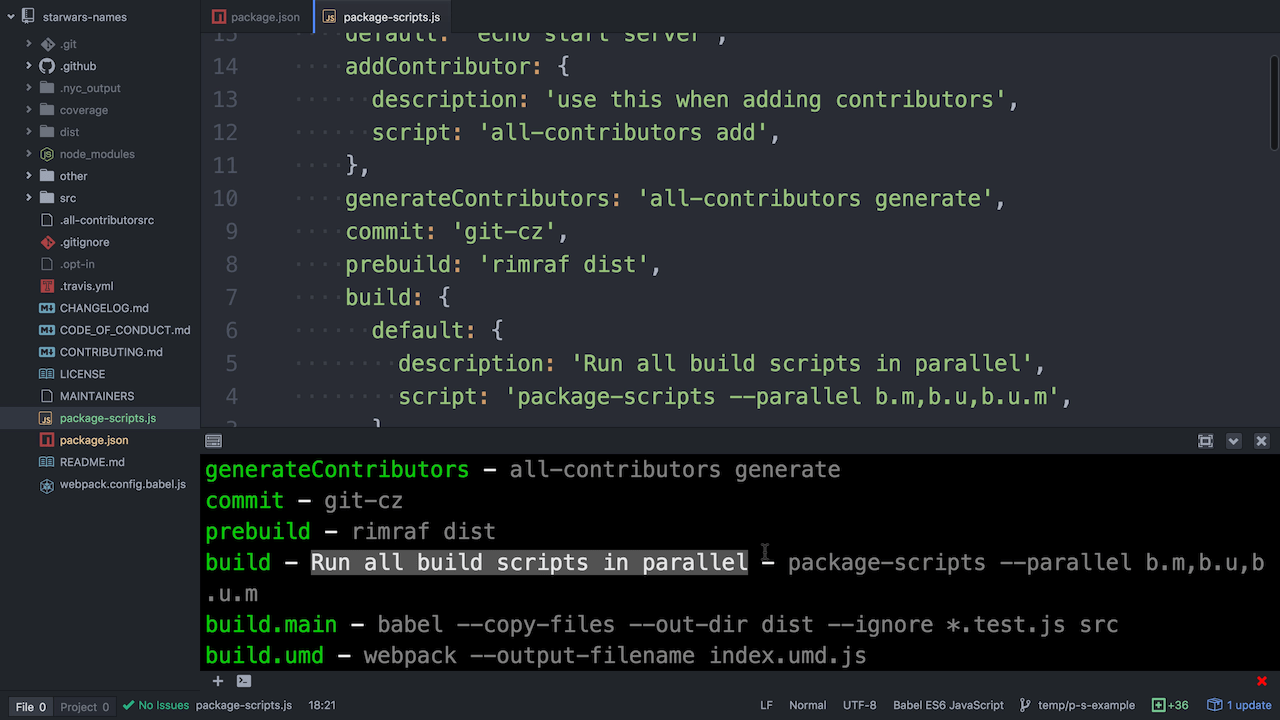
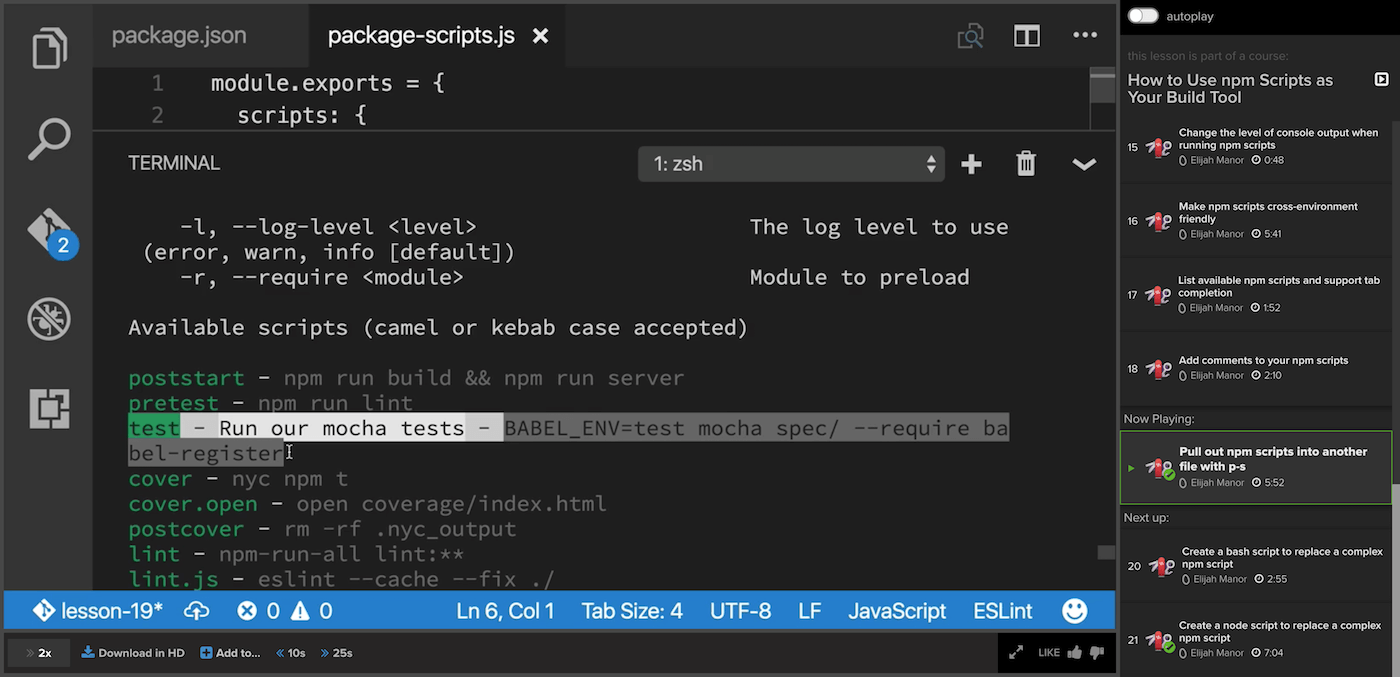
docs(README): update video screenshot to egghead.io video (#91)
I also changed the short URL (the one we're using for the link) to go to
@elijahmanor's awesome Egghead.io lesson about it!)

diff --git a/README.md b/README.md
@@ -11,7 +11,7 @@ All the benefits of npm scripts without the cost of a bloated package.json and l
 [![downloads][downloads-badge]][npm-stat]
 [![MIT License][license-badge]][LICENSE]
 
-[![All Contributors](https://img.shields.io/badge/all_contributors-19-orange.svg?style=flat-square)](#contributors)
+[![All Contributors](https://img.shields.io/badge/all_contributors-20-orange.svg?style=flat-square)](#contributors)
 [![PRs Welcome][prs-badge]][prs]
 [![Donate][donate-badge]][donate]
 [![Code of Conduct][coc-badge]][coc]
@@ -430,7 +430,7 @@ Thanks goes to these people ([emoji key][emojis]):
 | [<img src="https://avatars.githubusercontent.com/u/1500684?v=3" width="100px;"/><br /><sub>Kent C. Dodds</sub>](http://kent.doddsfamily.us)<br />[💻](https://github.com/kentcdodds/p-s/commits?author=kentcdodds) [📖](https://github.com/kentcdodds/p-s/commits?author=kentcdodds) 🚇 💡 📹 👀 | [<img src="https://avatars.githubusercontent.com/u/532272?v=3" width="100px;"/><br /><sub>David Wells</sub>](http://davidwells.io)<br />[💻](https://github.com/kentcdodds/p-s/commits?author=DavidWells) | [<img src="https://avatars.githubusercontent.com/u/802242?v=3" width="100px;"/><br /><sub>Abhishek Shende</sub>](https://twitter.com/abhishekisnot)<br />[💻](https://github.com/kentcdodds/p-s/commits?author=abhishekisnot) [⚠](https://github.com/kentcdodds/p-s/commits?author=abhishekisnot) | [<img src="https://avatars.githubusercontent.com/u/185649?v=3" width="100px;"/><br /><sub>Rowan Oulton</sub>](http://travelog.io)<br />[💻](https://github.com/kentcdodds/p-s/commits?author=rowanoulton) [📖](https://github.com/kentcdodds/p-s/commits?author=rowanoulton) [⚠](https://github.com/kentcdodds/p-s/commits?author=rowanoulton) | [<img src="https://avatars.githubusercontent.com/u/1915716?v=3" width="100px;"/><br /><sub>Gilad Goldberg</sub>](https://github.com/giladgo)<br />[💻](https://github.com/kentcdodds/p-s/commits?author=giladgo) | [<img src="https://avatars.githubusercontent.com/u/14267457?v=3" width="100px;"/><br /><sub>Tim McGee</sub>](https://github.com/tim-mcgee)<br />[💻](https://github.com/kentcdodds/p-s/commits?author=tim-mcgee) [📖](https://github.com/kentcdodds/p-s/commits?author=tim-mcgee) | [<img src="https://avatars.githubusercontent.com/u/175264?v=3" width="100px;"/><br /><sub>Nik Butenko</sub>](http://butenko.me)<br />💡 [💻](https://github.com/kentcdodds/p-s/commits?author=nkbt) |
 | :---: | :---: | :---: | :---: | :---: | :---: | :---: |
 | [<img src="https://avatars.githubusercontent.com/u/1972567?v=3" width="100px;"/><br /><sub>Tommy</sub>](http://www.tommyleunen.com)<br />[🐛](https://github.com/kentcdodds/p-s/issues?q=author%3Atleunen) [💻](https://github.com/kentcdodds/p-s/commits?author=tleunen) [⚠](https://github.com/kentcdodds/p-s/commits?author=tleunen) 👀 | [<img src="https://avatars.githubusercontent.com/u/509946?v=3" width="100px;"/><br /><sub>Jayson Harshbarger</sub>](http://www.hypercubed.com)<br />💡 👀 | [<img src="https://avatars.githubusercontent.com/u/1355481?v=3" width="100px;"/><br /><sub>JD Isaacks</sub>](http://www.jisaacks.com)<br />[💻](https://github.com/kentcdodds/p-s/commits?author=jisaacks) [⚠](https://github.com/kentcdodds/p-s/commits?author=jisaacks) | [<img src="https://avatars.githubusercontent.com/u/924465?v=3" width="100px;"/><br /><sub>Christopher Hiller</sub>](https://boneskull.com)<br />👀 | [<img src="https://avatars.githubusercontent.com/u/1834413?v=3" width="100px;"/><br /><sub>Robin Malfait</sub>](https://robinmalfait.com)<br />💡 | [<img src="https://avatars.githubusercontent.com/u/622118?v=3" width="100px;"/><br /><sub>Eric McCormick</sub>](https://ericmccormick.io)<br />👀 [📖](https://github.com/kentcdodds/p-s/commits?author=edm00se) | [<img src="https://avatars.githubusercontent.com/u/1913805?v=3" width="100px;"/><br /><sub>Sam Verschueren</sub>](https://twitter.com/SamVerschueren)<br />👀 |
-| [<img src="https://avatars.githubusercontent.com/u/1155589?v=3" width="100px;"/><br /><sub>Sorin Muntean</sub>](https://github.com/sxn)<br />[💻](https://github.com/kentcdodds/p-s/commits?author=sxn) [⚠](https://github.com/kentcdodds/p-s/commits?author=sxn) [📖](https://github.com/kentcdodds/p-s/commits?author=sxn) | [<img src="https://avatars.githubusercontent.com/u/1970063?v=3" width="100px;"/><br /><sub>Keith Gunn</sub>](https://github.com/gunnx)<br />[🐛](https://github.com/kentcdodds/p-s/issues?q=author%3Agunnx) [💻](https://github.com/kentcdodds/p-s/commits?author=gunnx) [⚠](https://github.com/kentcdodds/p-s/commits?author=gunnx) | [<img src="https://avatars.githubusercontent.com/u/1019478?v=3" width="100px;"/><br /><sub>Joe Martella</sub>](http://martellaj.github.io)<br />[🐛](https://github.com/kentcdodds/p-s/issues?q=author%3Amartellaj) [💻](https://github.com/kentcdodds/p-s/commits?author=martellaj) [⚠](https://github.com/kentcdodds/p-s/commits?author=martellaj) | [<img src="https://avatars.githubusercontent.com/u/1887854?v=3" width="100px;"/><br /><sub>Martin Segado</sub>](https://github.com/msegado)<br />[📖](https://github.com/kentcdodds/p-s/commits?author=msegado) | [<img src="https://avatars.githubusercontent.com/u/36491?v=3" width="100px;"/><br /><sub>Bram Borggreve</sub>](http://colmena.io/)<br />[🐛](https://github.com/kentcdodds/p-s/issues?q=author%3Abeeman) [💻](https://github.com/kentcdodds/p-s/commits?author=beeman) |
+| [<img src="https://avatars.githubusercontent.com/u/1155589?v=3" width="100px;"/><br /><sub>Sorin Muntean</sub>](https://github.com/sxn)<br />[💻](https://github.com/kentcdodds/p-s/commits?author=sxn) [⚠](https://github.com/kentcdodds/p-s/commits?author=sxn) [📖](https://github.com/kentcdodds/p-s/commits?author=sxn) | [<img src="https://avatars.githubusercontent.com/u/1970063?v=3" width="100px;"/><br /><sub>Keith Gunn</sub>](https://github.com/gunnx)<br />[🐛](https://github.com/kentcdodds/p-s/issues?q=author%3Agunnx) [💻](https://github.com/kentcdodds/p-s/commits?author=gunnx) [⚠](https://github.com/kentcdodds/p-s/commits?author=gunnx) | [<img src="https://avatars.githubusercontent.com/u/1019478?v=3" width="100px;"/><br /><sub>Joe Martella</sub>](http://martellaj.github.io)<br />[🐛](https://github.com/kentcdodds/p-s/issues?q=author%3Amartellaj) [💻](https://github.com/kentcdodds/p-s/commits?author=martellaj) [⚠](https://github.com/kentcdodds/p-s/commits?author=martellaj) | [<img src="https://avatars.githubusercontent.com/u/1887854?v=3" width="100px;"/><br /><sub>Martin Segado</sub>](https://github.com/msegado)<br />[📖](https://github.com/kentcdodds/p-s/commits?author=msegado) | [<img src="https://avatars.githubusercontent.com/u/36491?v=3" width="100px;"/><br /><sub>Bram Borggreve</sub>](http://colmena.io/)<br />[🐛](https://github.com/kentcdodds/p-s/issues?q=author%3Abeeman) [💻](https://github.com/kentcdodds/p-s/commits?author=beeman) | [<img src="https://avatars.githubusercontent.com/u/86454?v=3" width="100px;"/><br /><sub>Elijah Manor</sub>](http://elijahmanor.com)<br />📹 |
 <!-- ALL-CONTRIBUTORS-LIST:END -->
 
 This project follows the [all-contributors][all-contributors] specification.
